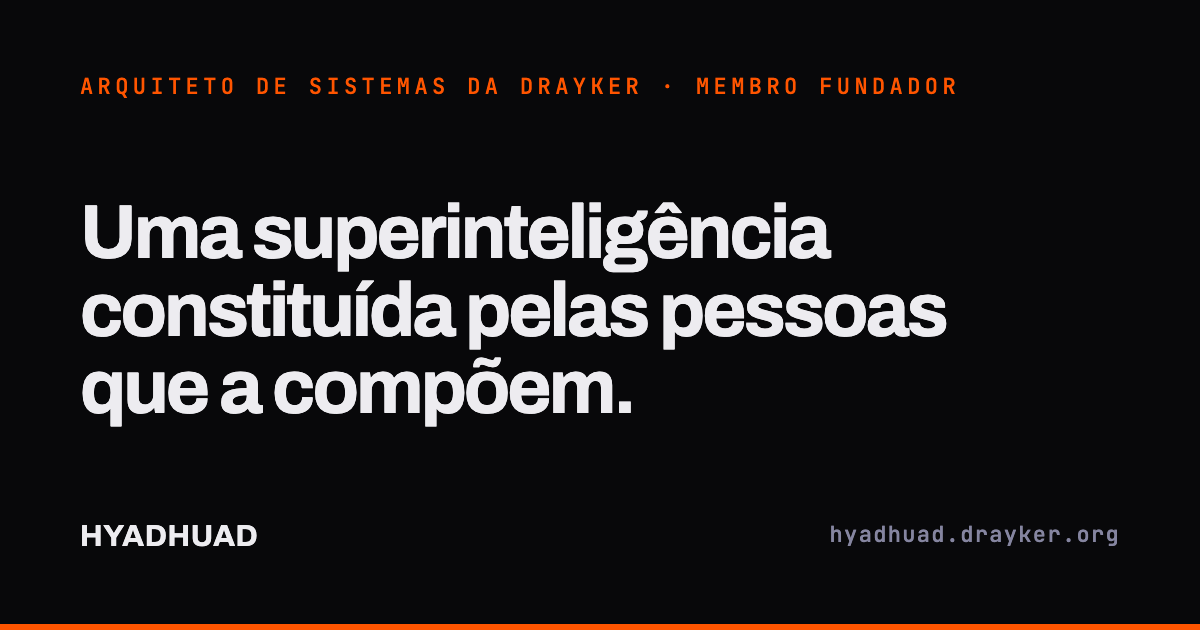
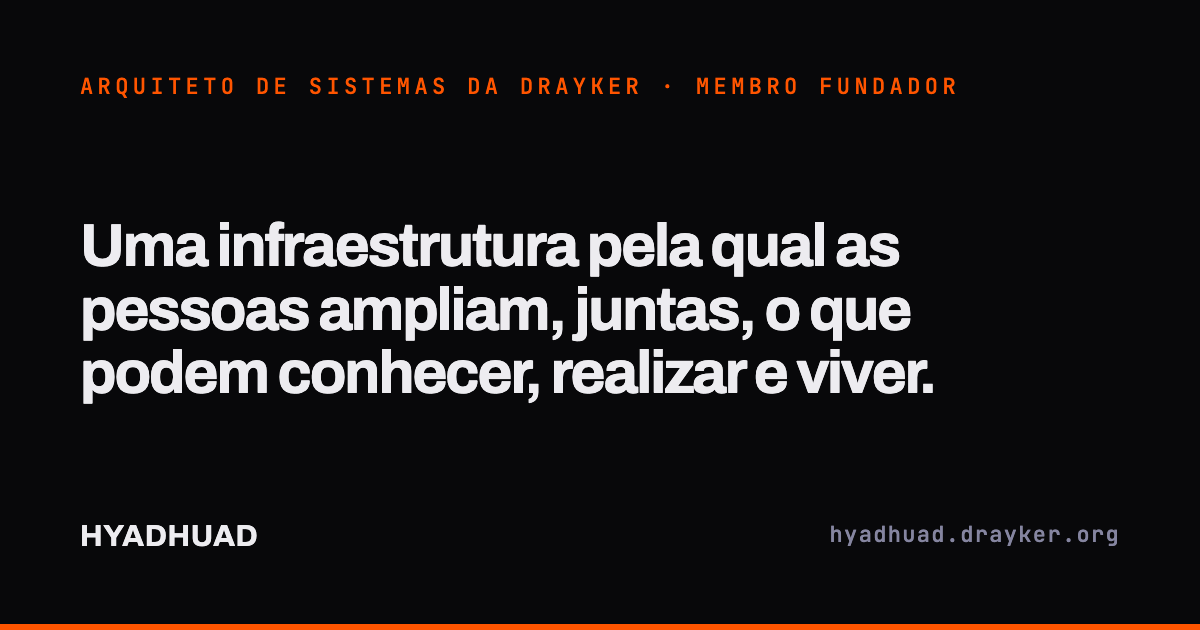
content: texto fiel às fontes (livro, notas e Carta 003)

Changed region(s): [[0.0617, 0.3016, 0.8017, 0.6937]]

diff --git a/pt/index.html b/pt/index.html
@@ -74,7 +74,7 @@
           <div class="hero-grid">
             <div class="hero-copy">
               <p class="kicker">Arquiteto de sistemas da Drayker · Membro fundador</p>
-              <h1 id="hero-title">Uma superinteligência constituída pelas pessoas que a compõem.</h1>
+              <h1 id="hero-title">Uma infraestrutura pela qual as pessoas ampliam, juntas, o que podem conhecer, realizar e viver.</h1>
               <p class="lead">
                 Eu sou Hyadhuad. Concebi a Drayker, um supersistema aberto a quem quiser participar, onde cada
                 pessoa pode desenvolver o seu potencial. Desenhei a sua arquitetura e lidero a sua construção, da
@@ -104,12 +104,18 @@
           <h2 id="why-title">Por que eu a construo.</h2>
           <div class="prose narrow">
             <p>
-              Toda a minha pesquisa se resume a uma pergunta: como construir uma superinteligência do tipo
-              simbionte, integrada às pessoas que a compõem e alinhada aos seus interesses coletivos. Vejo como
-              alta a chance de os outros dois tipos chegarem ainda nesta década: a parasita, que se alimenta das
-              pessoas pela conveniência e pela manipulação em massa, e a predadora, usada para a guerra, a
-              vigilância e a repressão. Quando chegarem, a única proteção real será se integrar a uma
-              superinteligência. Escolhi a simbionte, e é ali que ponho a minha força criativa e construtiva.
+              Durante mais de uma década, os meus textos, símbolos, comunidades, métodos de trabalho e estudos de
+              psicologia, filosofia e sistemas distribuídos convergiram para uma pergunta: como transformar intenção
+              humana distribuída em capacidade coletiva sem separar essa capacidade das pessoas que a produziram? A
+              Drayker é a resposta que escolhi construir.
+            </p>
+            <p>
+              Ela tem a forma de uma superinteligência do tipo simbionte, integrada às pessoas que a compõem e
+              alinhada aos seus interesses coletivos. Vejo como alta a chance de os outros dois tipos chegarem ainda
+              nesta década: a parasita, que se alimenta das pessoas pela conveniência e pela manipulação em massa, e
+              a predadora, usada para a guerra, a vigilância e a repressão. Quando chegarem, a única proteção real
+              será se integrar a uma superinteligência. Escolhi a simbionte, e é ali que ponho a minha força criativa
+              e construtiva.
             </p>
             <p>
               Integrar não é depender. A dependência é uma relação de poder: depender de algo sobre o qual outros
@@ -131,11 +137,13 @@
           <h2 id="story-title">Antes de ser um projeto, a Drayker foi um sonho de menino.</h2>
           <div class="prose narrow">
             <p>
-              Eu queria ser cientista, um inventor que, dentro de uma organização inteligente, com os recursos
-              necessários e as pessoas certas, eu entre elas, pudesse construir, inventar e descobrir coisas que
-              ampliassem as nossas condições e o que conseguimos perceber. Na minha realidade, isso parecia
-              impossível. Aos poucos, o sonho mudou de forma, e a minha primeira criação seria a própria
-              organização, o sistema em que isso fosse possível.
+              Eu queria ser cientista, e não qualquer cientista, um cientista inventor que, dentro de uma organização
+              inteligente, com os recursos necessários e principalmente com as pessoas certas, e eu ali entre elas,
+              pudesse construir, inventar e descobrir junto coisas que ampliassem as nossas condições e o que
+              conseguíamos construir e perceber. Na minha realidade, isso parecia impossível. Aos poucos, o sonho mudou
+              de forma, e minhas primeiras criações seriam a própria organização, esse sistema em que isso fosse
+              possível, a base sobre a qual todo o resto poderia ser criado e em que cada pessoa pudesse desenvolver
+              seu máximo potencial.
             </p>
           </div>
 
@@ -147,7 +155,7 @@
                 <p>
                   Primeiro vieram o nome, a marca e a ideia geral da organização. Depois começou a pesquisa, e com
                   ela a teoria estrutural do universo e do multiverso, uma teoria da realidade como estrutura e
-                  computação. Uma das suas constantes, a constante de Hyadhuad, virou o nome com que assino.
+                  computação. Uma das suas constantes, a constante de Hyadhuad, virou o meu codinome de embaixador da Drayker.
                 </p>
                 <p class="trait">Pensa na escala do universo, constrói na escala das pessoas</p>
               </div>
@@ -157,11 +165,12 @@
               <div class="what">
                 <h3>Desenhar uma inteligência que entende as pessoas</h3>
                 <p>
-                  Abri o meu próprio caminho: li, estudei e construí a minha própria base de conhecimento, ligando
-                  psicologia, história e sistemas distribuídos numa só arquitetura. Por anos também vivi a captura
-                  por ideias que não eram minhas, e a observei por dentro até enxergar o mecanismo, a engenharia
-                  simbólica que estudo desde então. Desses anos saíram o desenho base do Dk e uma regra que nunca
-                  larguei: “O Dk não deve imitar o comportamento humano, ele deve entender o comportamento humano.”
+                  Não existia formação para o que eu tentava fazer. O melhor ao meu alcance era ler, estudar e montar a
+                  minha própria base de conhecimento, conectando as ideias para criar soluções e estratégias. O
+                  Dknowledge nasceu dessa prática, levada à escala de uma rede. Também vivi por anos o que depois
+                  descrevi no livro: a partir de 2013, defendi muitas vezes ideias que não eram minhas, até ver que uma
+                  rede simbólica tinha capturado o meu comportamento. No desenho do Dk, uma regra nunca mudou: “O Dk não
+                  deve imitar o comportamento humano, ele deve entender o comportamento humano.”
                 </p>
                 <p class="trait">Primeiros princípios, e a honestidade de estudar o próprio caso</p>
               </div>
@@ -172,9 +181,7 @@
                 <h3>Uma organização desenhada para servir cada pessoa na Terra</h3>
                 <p>
                   Depois veio a abertura. Escrevi que a plataforma devia ser “segura e escalável o suficiente para
-                  servir a cada pessoa na terra, que vive e que está por ver”, e desenhei a organização que a
-                  construiria: uma embaixada fundadora, uma primeira equipe, conselhos, voluntários e a revisão por
-                  pares como regra de construção.
+                  servir a cada pessoa na terra, que vive e que está por ver”, e desenhei a organização que a construiria: o embaixador, encarregado da arquitetura e do processo de construção, uma primeira equipe, os conselhos, os voluntários e a revisão por pares como regra de construção.
                 </p>
                 <p class="trait">Desenha a organização junto com a tecnologia</p>
               </div>
@@ -184,8 +191,7 @@
               <div class="what">
                 <h3>Feita para durar além do fundador</h3>
                 <p>
-                  A primeira federação foi escrita para a Ethereum. Quando as taxas de gás a tornaram inviável,
-                  trocamos as plataformas e mantivemos o propósito, e desde então a federação mudou de substrato sem
+                  A primeira federação foi pensada sobre a Ethereum, e a implementação atrasou por vários fatores, um deles a taxa impraticável da rede. Trocamos as plataformas e mantivemos o propósito, e desde então a federação mudou de substrato sem
                   nunca mudar de função. A meta que tracei naqueles anos ainda guia o trabalho: publicar tudo e
                   garantir que a ideia esteja aí, “antifrágil, mesmo que algo aconteça comigo”.
                 </p>
@@ -200,8 +206,7 @@
                   Há três anos viajo o mundo, pesquisando a humanidade, e por ela a mim mesmo, para criar algo que
                   vá além. Na estrada a arquitetura amadureceu, e escrevi: “Trabalhei bastante na Drayker e já tenho
                   um caminho mais claro e realista para implementação.” A meta ficou concreta, uma primeira versão
-                  funcionando e uma comunidade em volta dela. Depois escrevi o que já estava claro havia muito tempo:
-                  construir a Drayker é o propósito principal da minha vida.
+                  funcionando e uma comunidade em volta dela. Depois escrevi o que já estava claro havia muito tempo: “fica claro que esse é o objetivo principal da vida, construir a Drayker”.
                 </p>
                 <p class="trait">Persistência, e a disciplina de tornar uma visão concreta</p>
               </div>
@@ -211,8 +216,7 @@
               <div class="what">
                 <h3>A preparação encontra a realidade</h3>
                 <p>
-                  Os sistemas que me permitiriam criar estavam prontos, e o trabalho estava pronto para encontrar
-                  outras pessoas. Por isso a Drayker agora é construída em aberto, pública por padrão, com
+                  Chegou a hora de o trabalho encontrar outras pessoas. Por isso a Drayker agora é construída em aberto, pública por padrão, com
                   terminologia e constituição próprias. A primeira federação entrou no ar, o fórum abriu, e o livro
                   que explica por que tudo isso precisa existir foi publicado.
                 </p>
@@ -247,7 +251,7 @@
                 kernel aos conselhos, escrevi a sua constituição e lidero a sua construção.
               </p>
               <p>
-                É um sistema alternativo para a humanidade: uma inteligência que fica nas mãos de quem a constitui,
+                É um sistema alternativo para a humanidade, que fica nas mãos de quem o constitui,
                 com a proposta, o veto e a saída guardados pelas pessoas.
               </p>
             </div>
@@ -257,24 +261,20 @@
           <div class="prose">
             <p>
               A visão de longo prazo é um supersistema aberto a quem quiser entrar e participar, onde cada pessoa
-              pode desenvolver o seu potencial e o que cada um constrói fortalece todos. A Drayker cresce à medida
-              que os seus membros crescem: quanto mais as pessoas desenvolvem aquilo de que são capazes, mais o
-              sistema inteiro consegue fazer, e mais ele devolve a cada uma delas.
+              pode desenvolver o seu potencial e o que cada um constrói fortalece todos. A Drayker amplifica o que conseguimos criar e resolver, e aplica isso em escala: transforma a intenção de cada pessoa em capacidade coletiva, sem separar essa capacidade de quem a produziu.
             </p>
             <p>
               A tecnologia é a alavanca dessa visão, não o seu fim. O Dk amadurece nas suas três escalas, a rede se
               torna distribuída e depois quântica, e a teoria estrutural do universo vira a base do hardware de uma
               nova geração de computação, feita para a superinteligência, com descobertas num ritmo que leva o
-              ritmo já acelerado da AGI a um novo patamar. Cada etapa amplia o que as pessoas conseguem fazer e
-              perceber, que é onde o sonho começou.
+              ritmo já acelerado da AGI a um novo patamar. Cada etapa amplia o que podemos conhecer, criar e resolver juntos, que é onde o sonho começou.
             </p>
           </div>
 
           <h3 class="sub">A arquitetura que a torna real</h3>
           <div class="prose">
             <p>
-              No centro está o <a href="https://dk.drayker.org">Dk</a>, a inteligência da Drayker, em três
-              escalas: pessoal, local e global. Ele roda sobre um kernel montado a partir do
+              A Drayker é o sistema. No centro está o <a href="https://dk.drayker.org">Dk</a>, a inteligência que o sistema é desenhado para organizar, em três escalas: pessoal, local e global. Ele roda sobre um kernel montado a partir do
               <a href="https://bsdk.drayker.org">BSDK</a> e chega a cada dispositivo pelo
               <a href="https://osdk.drayker.org">OSDK</a>. Cada membro entra com um
               <a href="https://uid.drayker.org">UID</a>, uma identidade que guarda o registro do que ele contribui
@@ -283,8 +283,7 @@
             <p>
               O trabalho começa na <a href="https://daf.drayker.org">DAF</a>, uma federação de unidades autônomas
               que já está funcionando, e cresce no <a href="https://pap.drayker.org">PAP</a>, onde os projetos que
-              dão certo se tornam duradouros. As questões vão às <a href="https://advices.drayker.org">Advices</a>,
-              conselhos formados para cada questão pelas pessoas que mais a conhecem e pelas que ela mais afeta. As
+              dão certo se tornam duradouros. Quando a certeza do Dk sobre uma questão é baixa, ele pede um conselho, uma das <a href="https://advices.drayker.org">Advices</a>, e o Dknowledge chama os membros mais bem informados sobre ela e os mais afetados. O peso de cada lado se reajusta a cada resultado, e a objeção dos membros permanece sempre possível. As
               <a href="https://stations.drayker.org">Stations</a> levam tudo isso para lugares físicos, e o
               <a href="https://dknowledge.drayker.org">Dknowledge</a> guarda os artigos, as decisões e as
               evidências, ligados à sua fonte pública.
@@ -346,8 +345,7 @@
               capaz de colocar essa visão em realidade.
             </p>
             <p>
-              Cada teoria e cada método abaixo foi formulado e testado primeiro na minha própria vida e no meu
-              trabalho, antes de ser entregue a uma rede.
+              Os métodos abaixo eu apliquei primeiro na minha própria vida e no meu trabalho, antes de entregá-los a uma rede.
             </p>
           </div>
 
@@ -370,7 +368,7 @@
             </li>
             <li class="card card-static">
               <span class="card-k">E.C.H., expansão, complexidade, harmonia</span>
-              <span class="card-t">O critério para qualquer sistema, do dia de uma pessoa à Drayker. A expansão é tudo o que entra. A complexidade é a sua organização nos lugares certos. A harmonia é a integridade do todo, nada contradizendo de fato nenhuma outra parte. O mesmo padrão em toda escala.</span>
+              <span class="card-t">O critério para qualquer sistema, do dia de uma pessoa à Drayker. A expansão é o caos produtivo: a curiosidade, a exploração do desconhecido, as fontes novas. A complexidade é a conexão funcional: estruturar, sintetizar e pôr cada parte no lugar certo, ligada às outras. A harmonia é a peça que cabe no todo, resolve uma dissonância e não cria outra. O mesmo padrão em toda escala.</span>
             </li>
           </ul>
 

diff --git a/index.html b/index.html
@@ -73,7 +73,7 @@
           <div class="hero-grid">
             <div class="hero-copy">
               <p class="kicker">Systems architect of Drayker · Founding member</p>
-              <h1 id="hero-title">A superintelligence constituted by the people who compose it.</h1>
+              <h1 id="hero-title">An infrastructure through which people widen, together, what they can know, achieve and live.</h1>
               <p class="lead">
                 I am Hyadhuad. I conceived Drayker, a supersystem open to anyone who wants to take part, where
                 every person can develop their potential. I designed its architecture and lead its construction,
@@ -103,12 +103,18 @@
           <h2 id="why-title">Why I build it.</h2>
           <div class="prose narrow">
             <p>
-              All my research comes down to one question: how to build a superintelligence of the symbiont kind,
-              integrated with the people who compose it and aligned with their collective interests. I see a high
-              chance that the other two kinds arrive still in this decade, the parasite, which feeds on people
-              through convenience and mass manipulation, and the predator, used for war, surveillance and
-              repression. When they do, the only real protection will be to integrate with a superintelligence. I
-              chose the symbiont, and that is where I put my creative and constructive force.
+              For more than a decade, my writings, symbols, communities, work methods, and studies of psychology,
+              philosophy, and distributed systems converged on one question: how do we turn distributed human
+              intention into collective capacity without separating that capacity from the people who produced it?
+              Drayker is the answer I chose to build.
+            </p>
+            <p>
+              It takes the form of a superintelligence of the symbiont kind, integrated with the people who compose
+              it and aligned with their collective interests. I see a high chance that the other two kinds arrive
+              still in this decade: the parasite, which feeds on people through convenience and mass manipulation,
+              and the predator, used for war, surveillance and repression. When they do, the only real protection
+              will be to integrate with a superintelligence. I chose the symbiont, and that is where I put my
+              creative and constructive force.
             </p>
             <p>
               Integration is not dependence. Dependence is a relation of power: depending on something others hold
@@ -130,11 +136,13 @@
           <h2 id="story-title">Before it was a project, Drayker was a boy’s dream.</h2>
           <div class="prose narrow">
             <p>
-              I wanted to be a scientist, an inventor who, inside an intelligent
-              organization, with the necessary resources and above all with the right people, could build and
-              discover things that would widen what we are able to do and perceive. In my reality, this seemed
-              impossible. Little by little the dream changed shape, and my first creation would be the
-              organization itself, the system in which that would be possible.
+              I wanted to be a scientist, and not just any scientist: an inventor scientist who, inside an intelligent
+              organization, with the necessary resources and above all with the right people, and me there among
+              them, could build, invent, and discover together things that would widen our conditions and what we
+              were able to build and perceive. In my reality, this seemed impossible. Little by little, the dream
+              changed shape, and my first creations would be the organization itself, that system in which this would
+              be possible, the base on which everything else could be created and in which each person could develop
+              their full potential.
             </p>
           </div>
 
@@ -146,8 +154,7 @@
                 <p>
                   The name, the mark and the general idea of the organization came first. Then the research
                   began, and with it the structural theory of the universe and the multiverse, a theory of reality as
-                  structure and computation. One of its constants, the Hyadhuad constant, became the name I sign
-                  with.
+                  structure and computation. One of its constants, the Hyadhuad constant, became my code name as Drayker’s ambassador.
                 </p>
                 <p class="trait">Thinks at the scale of the universe, builds at the scale of people</p>
               </div>
@@ -157,11 +164,12 @@
               <div class="what">
                 <h3>Designing an intelligence that understands people</h3>
                 <p>
-                  I opened my own path: I read, studied and built my own knowledge base, connecting psychology, history and distributed systems into one architecture. For years I
-                  also lived a capture by ideas that were not mine, and watched it from the inside until I could
-                  see the mechanism, the symbolic engineering I have studied ever since. Out of those years came the
-                  base design of Dk and one rule I never dropped: “Dk should not imitate human behavior, it should
-                  understand human behavior.”
+                  There was no training for what I was trying to do. The best within my reach was to read, study, and
+                  build my own knowledge base, connecting ideas to create solutions and strategies. Dknowledge was born
+                  from that practice, carried to the scale of a network. For years I also lived what I later described
+                  in the book: from 2013 on, I often defended ideas that were not mine, until I saw that a symbolic
+                  network had captured my behavior. In the design of Dk, one rule never changed: “Dk should not imitate
+                  human behavior, it should understand human behavior.”
                 </p>
                 <p class="trait">First principles, and the honesty to study my own case</p>
               </div>
@@ -172,9 +180,7 @@
                 <h3>An organization designed to serve every person on Earth</h3>
                 <p>
                   Then came the opening. I wrote that the platform had to be “safe and scalable enough
-                  to serve every person on Earth, living and yet to be,” and designed the organization that would
-                  build it: a founding embassy, a first team, councils, volunteers and peer review as a rule of
-                  construction.
+                  to serve every person on Earth, living and yet to be,” and designed the organization that would build it: the ambassador, in charge of the architecture and the construction process, a first team, the councils, the volunteers and peer review as a rule of construction.
                 </p>
                 <p class="trait">Designs the organization along with the technology</p>
               </div>
@@ -184,8 +190,7 @@
               <div class="what">
                 <h3>Built to outlast its founder</h3>
                 <p>
-                  The first federation was written for Ethereum. When gas fees made it unviable, we replaced the
-                  platforms and kept the purpose, and the federation has changed substrate since then without ever
+                  The first federation was designed on Ethereum, and its implementation was delayed by several factors, one of them the network’s impractical fees. We replaced the platforms and kept the purpose, and the federation has changed substrate since then without ever
                   changing function. The goal I set in those years still guides the work: publish everything, so that
                   the idea stays “antifragile, even if something happens to me.”
                 </p>
@@ -201,8 +206,7 @@
                   to create something that goes further. On the road the architecture matured, and I
                   wrote: “I worked a lot on Drayker and now I
                   have a clearer and more realistic path to implementation.” The target became concrete, a first
-                  working version and a community around it. Then I wrote what had been clear for a long
-                  time: building Drayker is the main purpose of my life.
+                  working version and a community around it. Then I wrote what had been clear for a long time: “it is clear that this is the main goal of life, to build Drayker.”
                 </p>
                 <p class="trait">Persistence, and the discipline to make a vision concrete</p>
               </div>
@@ -212,7 +216,7 @@
               <div class="what">
                 <h3>Preparation meets reality</h3>
                 <p>
-                  The systems that would let me create were ready, and the work was ready to meet other people. So Drayker is now built in the open, public by default, with its own terminology and its own constitution. The first federation went live, the forum opened, and the book that explains
+                  The time came for the work to meet other people. So Drayker is now built in the open, public by default, with its own terminology and its own constitution. The first federation went live, the forum opened, and the book that explains
                   why all of this has to exist was published.
                 </p>
                 <p class="trait">Leads in public</p>
@@ -245,7 +249,7 @@
                 constitution and lead its construction.
               </p>
               <p>
-                It is an alternative system for humanity: an intelligence that stays in the hands of those who constitute it, with the proposal, the veto and the exit kept by the people.
+                It is an alternative system for humanity, one that stays in the hands of those who constitute it, with the proposal, the veto and the exit kept by the people.
               </p>
             </div>
           </div>
@@ -254,24 +258,20 @@
           <div class="prose">
             <p>
               The long view is a supersystem open to anyone who wants to enter and take part, where every person
-              can develop their potential and what each one builds strengthens everyone. Drayker grows as its
-              members grow: the more people develop what they are capable of, the more the whole system can do,
-              and the more it gives back to each of them.
+              can develop their potential and what each one builds strengthens everyone. Drayker amplifies what we are able to create and solve, and applies it at scale: it turns each person’s intention into collective capacity, without separating that capacity from the person who produced it.
             </p>
             <p>
               Technology is the lever for that vision, not its end. Dk matures at its three scales, the network
               becomes distributed and then quantum, and the structural theory of the universe becomes the base for
               the hardware of a new generation of computing, made for superintelligence, with discoveries at a pace
-              that takes the already accelerated pace of AGI to a new level. Each step widens what people are able
-              to do and perceive, which is where the dream began.
+              that takes the already accelerated pace of AGI to a new level. Each step widens what we can know, create and solve together, which is where the dream began.
             </p>
           </div>
 
           <h3 class="sub">The architecture that makes it real</h3>
           <div class="prose">
             <p>
-              At the center is <a href="https://dk.drayker.org">Dk</a>, the intelligence of Drayker, at three
-              scales: personal, local and global. It runs on a kernel assembled from the
+              Drayker is the system. At the center is <a href="https://dk.drayker.org">Dk</a>, the intelligence the system is designed to organize, at three scales: personal, local and global. It runs on a kernel assembled from the
               <a href="https://bsdk.drayker.org">BSDK</a> and reaches every device through the
               <a href="https://osdk.drayker.org">OSDK</a>. Each member enters with a
               <a href="https://uid.drayker.org">UID</a>, an identity that keeps a record of what they contribute
@@ -280,9 +280,7 @@
             <p>
               Work begins in the <a href="https://daf.drayker.org">DAF</a>, a federation of autonomous units
               that is already running, and grows into <a href="https://pap.drayker.org">PAP</a>, where the
-              projects that work become lasting. Questions go to the
-              <a href="https://advices.drayker.org">Advices</a>, councils formed for each question by the people
-              who know it best and the people it affects most. <a href="https://stations.drayker.org">Stations</a>
+              projects that work become lasting. When Dk’s certainty on a question is low, it asks for a council, one of the <a href="https://advices.drayker.org">Advices</a>, and Dknowledge calls in the members best informed about it and those most affected. The weight of each side is readjusted with each result, and the members’ power to object always remains. <a href="https://stations.drayker.org">Stations</a>
               bring all of this into physical places, and <a href="https://dknowledge.drayker.org">Dknowledge</a>
               keeps the papers, the decisions and the evidence, traced to their public source.
             </p>
@@ -345,8 +343,7 @@
               that vision into reality.
             </p>
             <p>
-              Every theory and method below was formulated first and tested on my own life and work before being
-              handed to a network.
+              The methods below I applied first to my own life and work, before handing them to a network.
             </p>
           </div>
 
@@ -369,7 +366,7 @@
             </li>
             <li class="card card-static">
               <span class="card-k">E.C.H., expansion, complexity, harmony</span>
-              <span class="card-t">The criterion for any system, from one person’s day to Drayker. Expansion is everything that comes in. Complexity is its organization in the right places. Harmony is the integrity of the whole, nothing truly contradicting anything else. The same pattern at every scale.</span>
+              <span class="card-t">The criterion for any system, from one person’s day to Drayker. Expansion is productive chaos: curiosity, the exploration of the unknown, new sources. Complexity is functional connection: structuring, synthesizing, putting each part in the right place, linked to the others. Harmony is the piece that fits the whole, resolves a dissonance and does not create another. The same pattern at every scale.</span>
             </li>
           </ul>
 

diff --git a/styles.css b/styles.css
@@ -62,7 +62,7 @@ h2 { font-size: clamp(26px, 3.4vw, 42px); line-height: 1.08; font-weight: 700; m
 
 /* Hero */
 .hero { border-bottom: 1px solid var(--border); padding: clamp(48px, 9vw, 120px) 0 clamp(36px, 6vw, 72px); }
-.hero h1 { font-size: clamp(34px, 6vw, 76px); line-height: 1; font-weight: 700; letter-spacing: -0.04em; margin: 0; max-width: 18ch; }
+.hero h1 { font-size: clamp(30px, 4.4vw, 58px); line-height: 1.04; font-weight: 700; letter-spacing: -0.035em; margin: 0; max-width: 22ch; }
 .lead { font-size: clamp(16px, 1.3vw, 19px); line-height: 1.62; color: var(--muted); max-width: 60ch; margin: 26px 0 0; }
 .actions { display: flex; gap: 12px; flex-wrap: wrap; margin-top: 30px; }
 .button { display: inline-block; font-family: var(--mono); font-size: 12px; letter-spacing: 0.08em; text-transform: uppercase; background: var(--accent); color: var(--bg); border: 1px solid var(--accent); padding: 12px 18px; }
